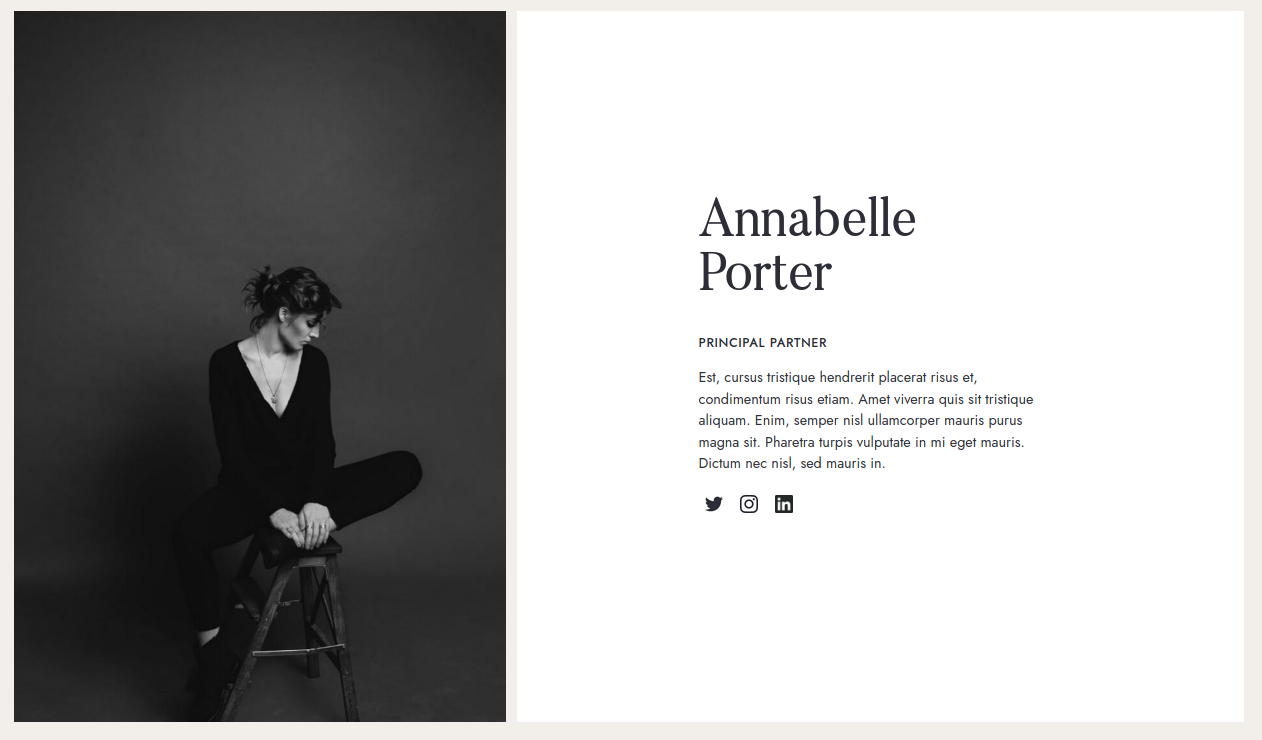
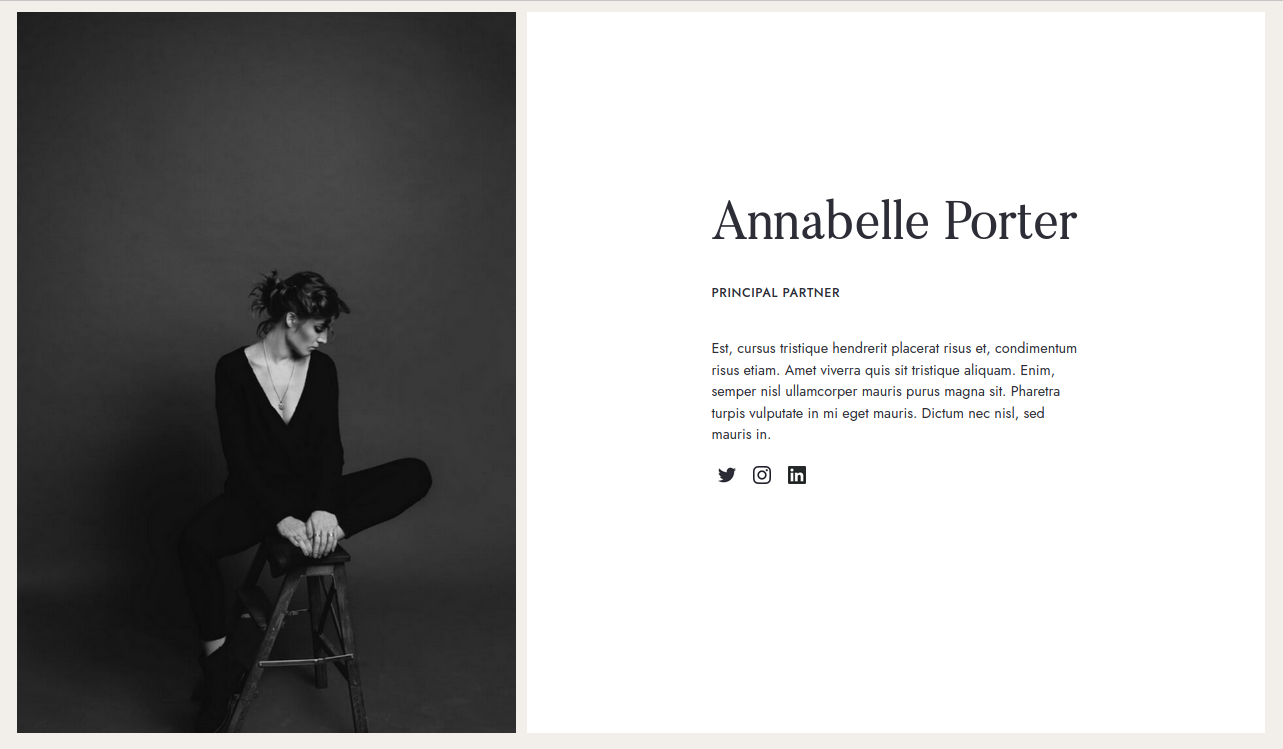
updated showoff picture

diff --git a/complex08.html b/complex08.html
@@ -22,7 +22,7 @@
             <div class="box">
                 <h1>Annabelle Porter</h1>
                 <h2>principal partner</h2>
-                <p>Est, cursus tristique hendrerit placerat risus et, condimentum risus etiam. Amet viverra quis sit
+                <p></br>Est, cursus tristique hendrerit placerat risus et, condimentum risus etiam. Amet viverra quis sit
                     tristique aliquam. Enim, semper nisl ullamcorper mauris purus magna sit. Pharetra turpis vulputate
                     in mi
                     eget mauris. Dictum nec nisl, sed mauris in.</p>
